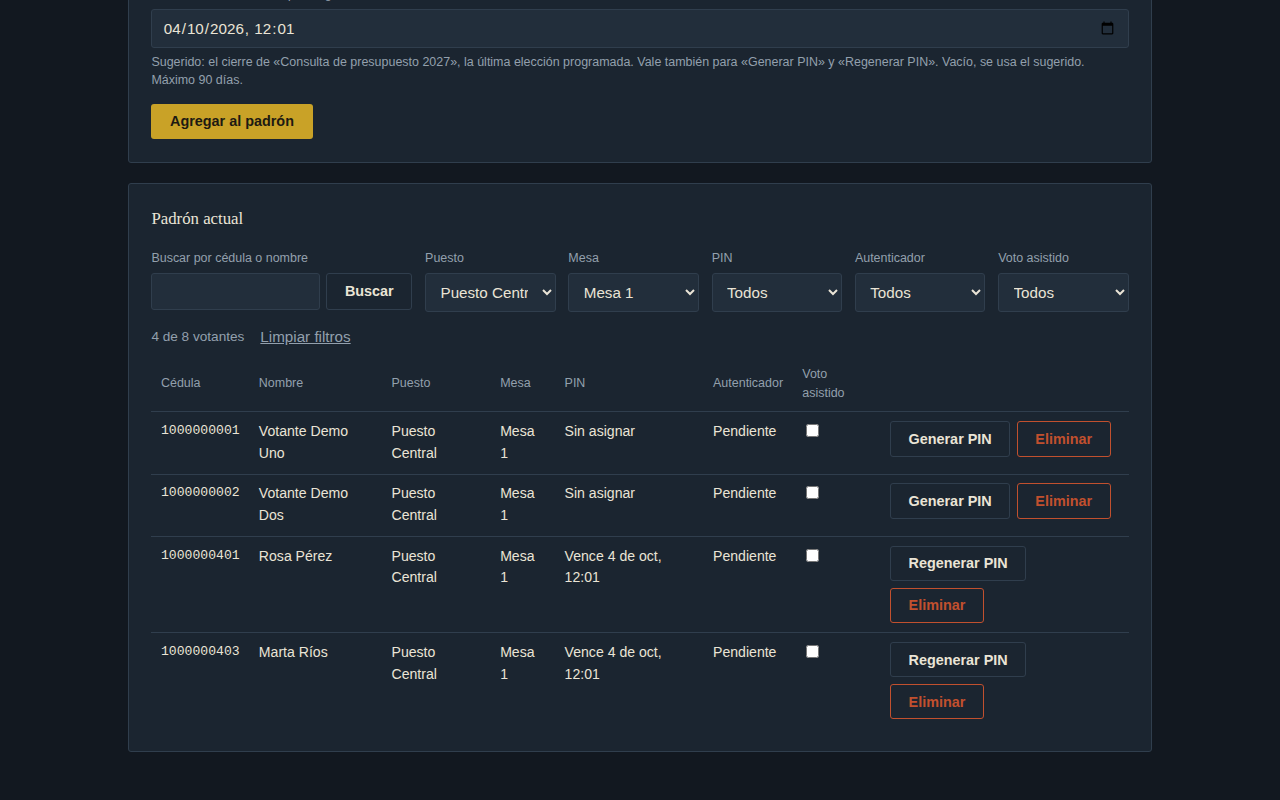
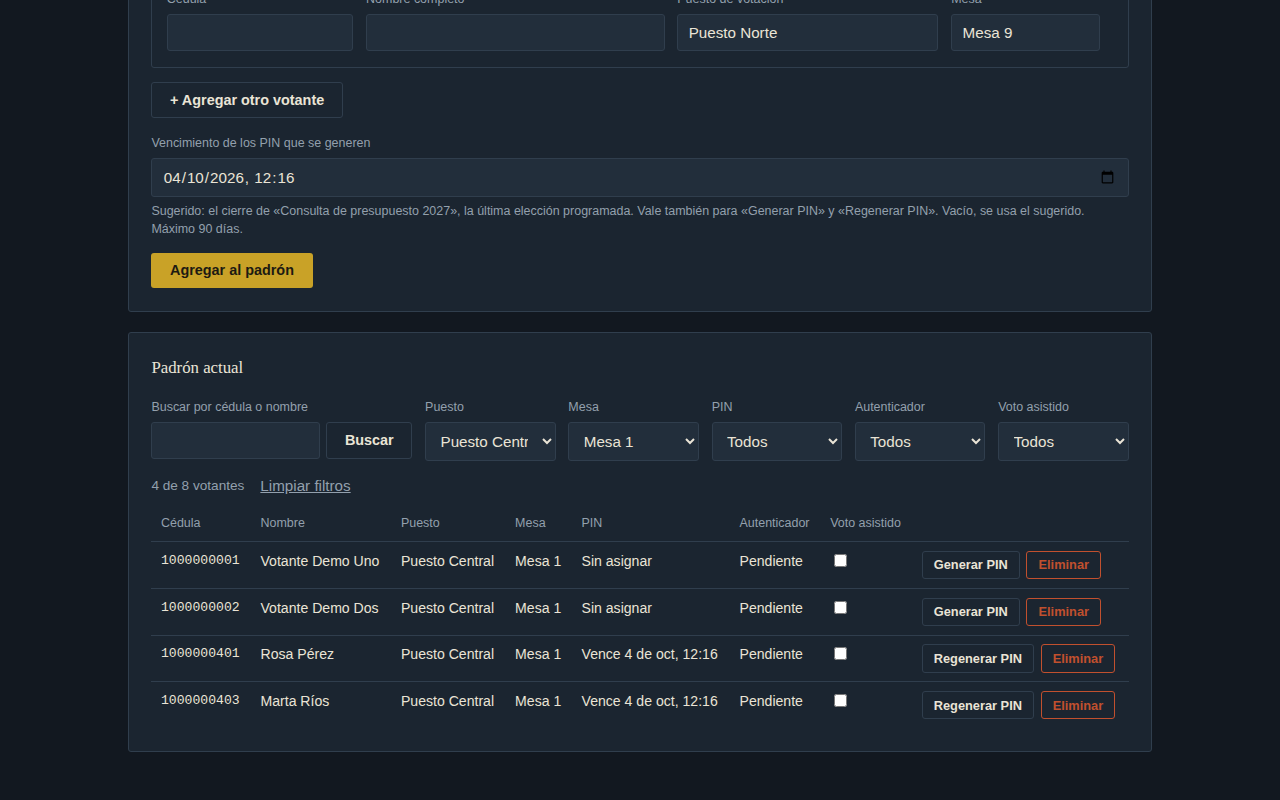
Acciones del padron y de usuarios en una sola fila
Los botones de cada fila (Regenerar PIN, Restablecer autenticador,
Eliminar; en Usuarios, Cambiar mesa) se apilaban porque el contenedor
permitia saltos de linea y la columna quedaba angosta. Ahora van siempre
uno al lado del otro, un poco mas compactos, y si la pantalla es angosta
la tabla se desplaza hacia el costado en lugar de apilarlos. Comprobado
en un navegador real a 1280 y 900 px; captura 13 rehecha.

diff --git a/services/frontend/src/pages/AdminDashboard.jsx b/services/frontend/src/pages/AdminDashboard.jsx
@@ -887,56 +887,58 @@ function UsersTab({ session }) {
 
       <div className="panel">
         <h3>Usuarios ({users.length})</h3>
-        <table className="table">
-          <thead><tr><th>Usuario</th><th>Rol</th><th>Puesto y mesa</th><th>Autenticador</th><th></th></tr></thead>
-          <tbody>
-            {users.map((u) => (
-              <tr key={u.id}>
-                <td>{u.username}</td>
-                <td>{ownValue(ROLE_LABEL, u.role) || u.role}</td>
-                <td>
-                  {u.role !== 'jurado' ? '—' : editing?.id === u.id ? (
-                    <div className="editar-mesa">
-                      <LugarJuradoFields
-                        places={places || []}
-                        pollingPlace={editing.pollingPlace}
-                        votingTable={editing.votingTable}
-                        onChange={(p, m) => setEditing({ ...editing, pollingPlace: p, votingTable: m })}
-                      />
-                      <div className="acciones-padron">
-                        <button className="btn btn-gold" disabled={!editing.pollingPlace} onClick={saveMesa}>Guardar</button>
-                        <button className="btn btn-outline" onClick={() => setEditing(null)}>Cancelar</button>
+        <div className="tabla-desplazable">
+          <table className="table">
+            <thead><tr><th>Usuario</th><th>Rol</th><th>Puesto y mesa</th><th>Autenticador</th><th></th></tr></thead>
+            <tbody>
+              {users.map((u) => (
+                <tr key={u.id}>
+                  <td>{u.username}</td>
+                  <td>{ownValue(ROLE_LABEL, u.role) || u.role}</td>
+                  <td>
+                    {u.role !== 'jurado' ? '—' : editing?.id === u.id ? (
+                      <div className="editar-mesa">
+                        <LugarJuradoFields
+                          places={places || []}
+                          pollingPlace={editing.pollingPlace}
+                          votingTable={editing.votingTable}
+                          onChange={(p, m) => setEditing({ ...editing, pollingPlace: p, votingTable: m })}
+                        />
+                        <div className="acciones-padron">
+                          <button className="btn btn-gold" disabled={!editing.pollingPlace} onClick={saveMesa}>Guardar</button>
+                          <button className="btn btn-outline" onClick={() => setEditing(null)}>Cancelar</button>
+                        </div>
                       </div>
-                    </div>
-                  ) : lugarJurado(u.polling_place, u.voting_table)}
-                </td>
-                <td>{u.role !== 'jurado' ? '—' : u.has_totp ? 'Registrado' : 'Pendiente (primer ingreso)'}</td>
-                <td>
-                  {u.role === 'jurado' && (
-                    <div className="acciones-padron">
-                      {editing?.id !== u.id && !sinPadron && (
-                        <button
-                          className="btn btn-outline"
-                          onClick={() => {
-                            // Si su puesto está en el padrón, se parte de él (y de su mesa, si existe).
-                            const puesto = (places || []).find((p) => p.pollingPlace === u.polling_place);
-                            const mesa = puesto?.votingTables.includes(u.voting_table) ? u.voting_table : '';
-                            setEditing({ id: u.id, username: u.username, pollingPlace: puesto ? u.polling_place : '', votingTable: mesa });
-                          }}
-                        >
-                          Cambiar mesa
-                        </button>
-                      )}
-                      {u.has_totp && (
-                        <button className="btn btn-outline" onClick={() => resetTotp(u)}>Restablecer autenticador</button>
-                      )}
-                    </div>
-                  )}
-                </td>
-              </tr>
-            ))}
-          </tbody>
-        </table>
+                    ) : lugarJurado(u.polling_place, u.voting_table)}
+                  </td>
+                  <td>{u.role !== 'jurado' ? '—' : u.has_totp ? 'Registrado' : 'Pendiente (primer ingreso)'}</td>
+                  <td>
+                    {u.role === 'jurado' && (
+                      <div className="acciones-padron">
+                        {editing?.id !== u.id && !sinPadron && (
+                          <button
+                            className="btn btn-outline"
+                            onClick={() => {
+                              // Si su puesto está en el padrón, se parte de él (y de su mesa, si existe).
+                              const puesto = (places || []).find((p) => p.pollingPlace === u.polling_place);
+                              const mesa = puesto?.votingTables.includes(u.voting_table) ? u.voting_table : '';
+                              setEditing({ id: u.id, username: u.username, pollingPlace: puesto ? u.polling_place : '', votingTable: mesa });
+                            }}
+                          >
+                            Cambiar mesa
+                          </button>
+                        )}
+                        {u.has_totp && (
+                          <button className="btn btn-outline" onClick={() => resetTotp(u)}>Restablecer autenticador</button>
+                        )}
+                      </div>
+                    )}
+                  </td>
+                </tr>
+              ))}
+            </tbody>
+          </table>
+        </div>
       </div>
     </div>
   );
@@ -1311,45 +1313,47 @@ function VotersTab({ session }) {
           <div className="empty-state">{hayFiltros ? 'Ningún votante coincide con los filtros.' : 'Sin votantes cargados todavía.'}</div>
         ) : (
           <>
-            <table className="table">
-              <thead><tr><th>Cédula</th><th>Nombre</th><th>Puesto</th><th>Mesa</th><th>PIN</th><th>Autenticador</th><th>Voto asistido</th><th></th></tr></thead>
-              <tbody>
-                {voters.map((v) => (
-                  <tr key={v.id}>
-                    <td className="mono sin-corte">{v.cedula}</td>
-                    <td>{v.full_name}</td>
-                    <td>{v.polling_place}</td>
-                    <td>{v.voting_table}</td>
-                    <td>{pinStatus(v, Date.now())}</td>
-                    <td>{v.assisted ? 'No lo usa' : v.has_totp ? 'Registrado' : 'Pendiente'}</td>
-                    <td>
-                      <input
-                        type="checkbox"
-                        aria-label={`Voto asistido de ${v.full_name}`}
-                        checked={v.assisted}
-                        disabled={savingId === v.id}
-                        onChange={(e) => setAssisted(v, e.target.checked)}
-                      />
-                    </td>
-                    <td>
-                      <div className="acciones-padron">
-                        <button className="btn btn-outline" disabled={resettingId === v.id} onClick={() => resetPin(v.id)}>
-                          {resettingId === v.id ? 'Generando…' : v.has_pin ? 'Regenerar PIN' : 'Generar PIN'}
-                        </button>
-                        {v.has_totp && !v.assisted && (
-                          <button className="btn btn-outline" disabled={savingId === v.id} onClick={() => resetTotp(v)}>
-                            Restablecer autenticador
+            <div className="tabla-desplazable">
+              <table className="table">
+                <thead><tr><th>Cédula</th><th>Nombre</th><th>Puesto</th><th>Mesa</th><th>PIN</th><th>Autenticador</th><th>Voto asistido</th><th></th></tr></thead>
+                <tbody>
+                  {voters.map((v) => (
+                    <tr key={v.id}>
+                      <td className="mono sin-corte">{v.cedula}</td>
+                      <td>{v.full_name}</td>
+                      <td>{v.polling_place}</td>
+                      <td>{v.voting_table}</td>
+                      <td>{pinStatus(v, Date.now())}</td>
+                      <td>{v.assisted ? 'No lo usa' : v.has_totp ? 'Registrado' : 'Pendiente'}</td>
+                      <td>
+                        <input
+                          type="checkbox"
+                          aria-label={`Voto asistido de ${v.full_name}`}
+                          checked={v.assisted}
+                          disabled={savingId === v.id}
+                          onChange={(e) => setAssisted(v, e.target.checked)}
+                        />
+                      </td>
+                      <td>
+                        <div className="acciones-padron">
+                          <button className="btn btn-outline" disabled={resettingId === v.id} onClick={() => resetPin(v.id)}>
+                            {resettingId === v.id ? 'Generando…' : v.has_pin ? 'Regenerar PIN' : 'Generar PIN'}
                           </button>
-                        )}
-                        <button className="btn btn-danger-outline" disabled={savingId === v.id} onClick={() => remove(v)}>
-                          Eliminar
-                        </button>
-                      </div>
-                    </td>
-                  </tr>
-                ))}
-              </tbody>
-            </table>
+                          {v.has_totp && !v.assisted && (
+                            <button className="btn btn-outline" disabled={savingId === v.id} onClick={() => resetTotp(v)}>
+                              Restablecer autenticador
+                            </button>
+                          )}
+                          <button className="btn btn-danger-outline" disabled={savingId === v.id} onClick={() => remove(v)}>
+                            Eliminar
+                          </button>
+                        </div>
+                      </td>
+                    </tr>
+                  ))}
+                </tbody>
+              </table>
+            </div>
             {total > VOTERS_PAGE_SIZE && (
               <div className="pagination">
                 <button className="btn btn-outline" disabled={page === 0} onClick={() => setPage((p) => p - 1)}>

diff --git a/services/frontend/src/styles.css b/services/frontend/src/styles.css
@@ -236,8 +236,12 @@ input, select, textarea {
 .link-button.volver { display: block; margin: 1rem auto 0; color: #6b6350; }
 .jurado-pasos { padding-left: 1.2rem; margin: 0; line-height: 1.6; color: var(--color-text-muted); }
 .jurado-pasos li { margin-bottom: 0.35rem; }
-.acciones-padron { display: flex; flex-wrap: wrap; gap: 0.4rem; }
-.acciones-padron .btn { white-space: nowrap; }
+/* Acciones de una fila (Padrón, Usuarios): siempre una al lado de la otra,
+   compactas. Si no entran, la tabla se desplaza hacia el costado
+   (.tabla-desplazable) en lugar de apilarlas. */
+.acciones-padron { display: flex; flex-wrap: nowrap; gap: 0.4rem; align-items: center; }
+.acciones-padron .btn { white-space: nowrap; padding: 0.35rem 0.7rem; font-size: 0.8rem; }
+.tabla-desplazable { overflow-x: auto; }
 .editar-mesa { min-width: 280px; }
 
 /* Padrón: una fila del formulario por votante, y los filtros del listado */
